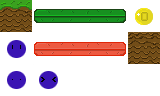
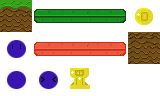
Added winning condition

Changed region(s): [[0.4375, 0.6875, 0.5625, 0.9375]]

diff --git a/core/src/me/dbecaj/jelloshot/GameModule.kt b/core/src/me/dbecaj/jelloshot/GameModule.kt
@@ -95,9 +95,15 @@ class GameModule : AbstractModule() {
                         val entity1 = fa.body.userData as Entity
                         val entity2 = fb.body.userData as Entity
 
-                        if (entity1.getComponent(EntityTypeComponent::class.java)?.entityType == EntityType.COIN ||
-                                entity2.getComponent(EntityTypeComponent::class.java)?.entityType == EntityType.COIN) {
-                            contact.isEnabled = false
+                        if (entity1.getComponent(EntityTypeComponent::class.java) != null &&
+                                entity2.getComponent(EntityTypeComponent::class.java) != null) {
+                            val entity1Type = entity1.getComponent(EntityTypeComponent::class.java).entityType
+                            val entity2Type = entity2.getComponent(EntityTypeComponent::class.java).entityType
+
+                            val nonCollidingEntities = arrayOf(EntityType.COIN, EntityType.CUP)
+                            if (nonCollidingEntities.contains(entity1Type) || nonCollidingEntities.contains(entity2Type)) {
+                                contact.isEnabled = false
+                            }
                         }
                     }
                 }

diff --git a/core/src/me/dbecaj/jelloshot/core/GameWorld.kt b/core/src/me/dbecaj/jelloshot/core/GameWorld.kt
@@ -261,6 +261,29 @@ class GameWorld @Inject constructor(
         return entity
     }
 
+    fun createCup(position: Vector2): Entity {
+        val entity = Entity().apply {
+            add(TextureRegionComponent(assetManager.cupSprite()))
+            add(TransformComponent(position, 0F, 3F))
+
+            val body = world.createBody(BodyDef().apply {
+                type = BodyDef.BodyType.StaticBody
+            })
+            body.createFixture(PolygonShape().apply {
+                setAsBox(1F, 1F)
+            }, 0F)
+            body.setTransform(transform.position, 0F)
+            body.userData = this
+            add(PhysicsComponent(body))
+
+            add(EntityTypeComponent(EntityType.CUP))
+            add(CollisionComponent(null))
+        }
+
+        engine.addEntity(entity)
+        return entity
+    }
+
     fun createBox(position: Vector2, size: Float = 1F): Entity {
         val entity = Entity().apply {
             add(TransformComponent(Vector2(position)))

diff --git a/core/src/me/dbecaj/jelloshot/core/GameManager.kt b/core/src/me/dbecaj/jelloshot/core/GameManager.kt
@@ -13,6 +13,7 @@ enum class GameState {
     RUNNING,
     PAUSED,
     LOSE,
+    WIN,
     RESTART
 }
 
@@ -43,7 +44,7 @@ class GameManager @Inject() constructor(
     }
 
     fun unpause() {
-        if (state == GameState.RUNNING || state == GameState.LOSE) return
+        if (state == GameState.RUNNING || state == GameState.LOSE || state == GameState.WIN) return
 
         injector.getInstance(Hud::class.java).hidePauseMenu()
         inputMultiplexer.addProcessor(playerControllerSystem.playerInputAdapter)
@@ -66,6 +67,12 @@ class GameManager @Inject() constructor(
         pause()
 
         state = GameState.LOSE
+    }
+
+    fun win() {
+        pause()
+
+        state = GameState.WIN
     }
 
     fun quit() {

diff --git a/core/src/me/dbecaj/jelloshot/system/CollisionSystem.kt b/core/src/me/dbecaj/jelloshot/system/CollisionSystem.kt
@@ -51,6 +51,10 @@ class CollisionSystem @Inject() constructor(
                             body.fixtureList[0].shape.radius = body.fixtureList[0].shape.radius * 0.99F;
                         }*/
                     }
+                    EntityType.CUP -> {
+                        engine.removeEntity(cc)
+                        gameManager.win()
+                    }
                 }
             }
 

diff --git a/core/src/me/dbecaj/jelloshot/core/GameAssetManager.kt b/core/src/me/dbecaj/jelloshot/core/GameAssetManager.kt
@@ -82,6 +82,12 @@ class GameAssetManager @Inject constructor() {
         }
     }
 
+    fun cupSprite(): TextureRegion {
+        return TextureRegion(assetManager.get(atlasFile, Texture::class.java)).apply {
+            setRegion(2 * 32, 2* 32, 32, 32)
+        }
+    }
+
     fun loadLevel(file: File) {
         // Check if the level is already loaded
         if (loadedLevelPath == file.path) return

diff --git a/core/src/me/dbecaj/jelloshot/core/LevelBuilder.kt b/core/src/me/dbecaj/jelloshot/core/LevelBuilder.kt
@@ -47,6 +47,7 @@ class LevelBuilder @Inject constructor(
                         5 -> gameWorld.createCoin(Vector2(position))
                         6 -> gameWorld.createPlayer(position)
                         7 -> gameWorld.createRedPlatform(position)
+                        13 -> gameWorld.createCup(position)
                     }
                 }
             }

diff --git a/core/src/me/dbecaj/jelloshot/Components.kt b/core/src/me/dbecaj/jelloshot/Components.kt
@@ -56,7 +56,8 @@ enum class EntityType {
     COIN,
     GREEN_PLATFORM,
     RED_PLATFORM,
-    GROUND
+    GROUND,
+    CUP
 }
 
 class EntityTypeComponent(val entityType: EntityType) : Component {
